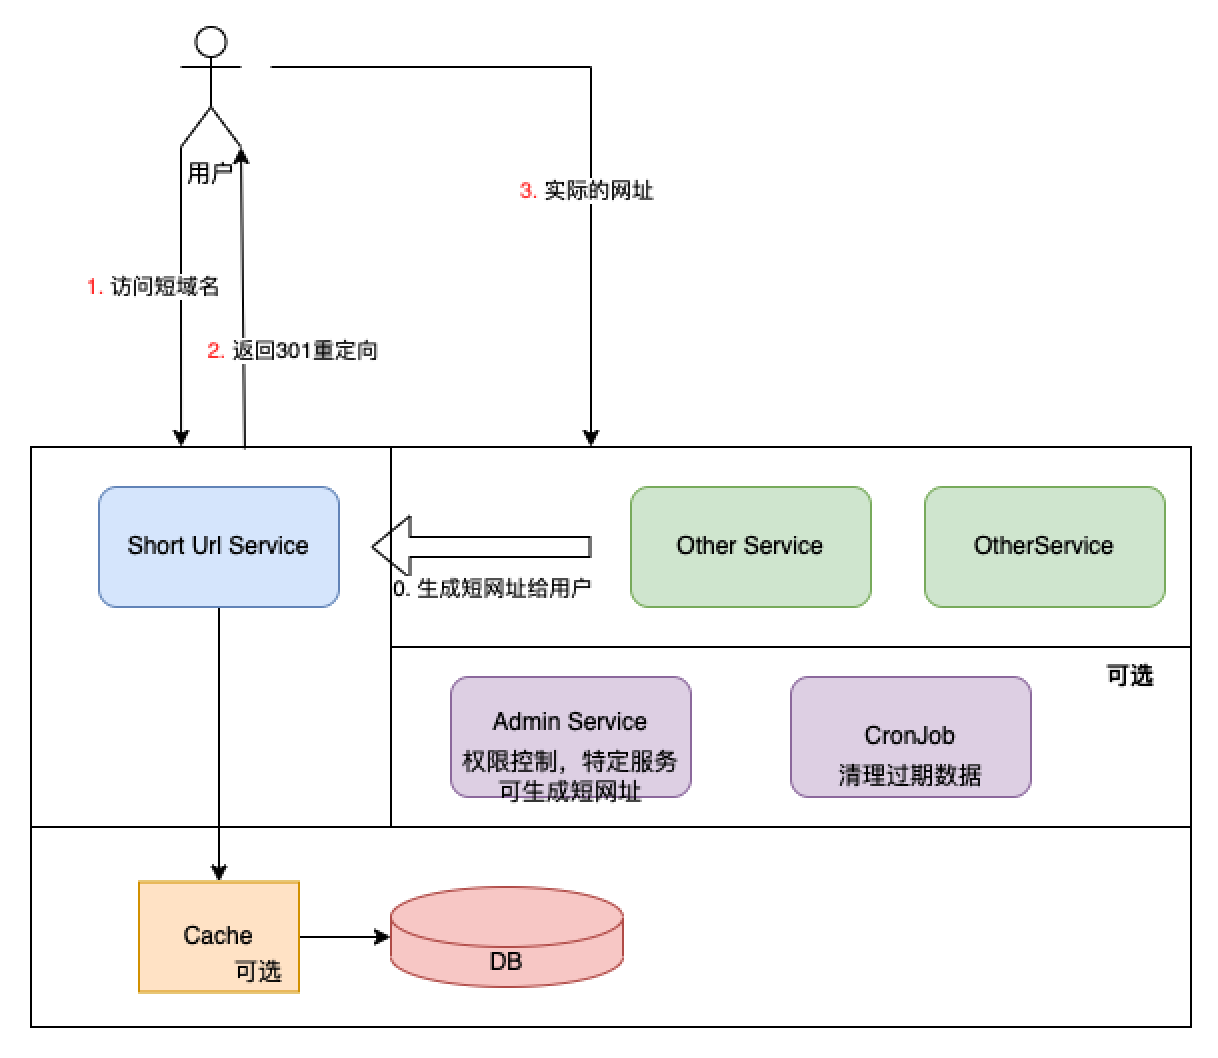
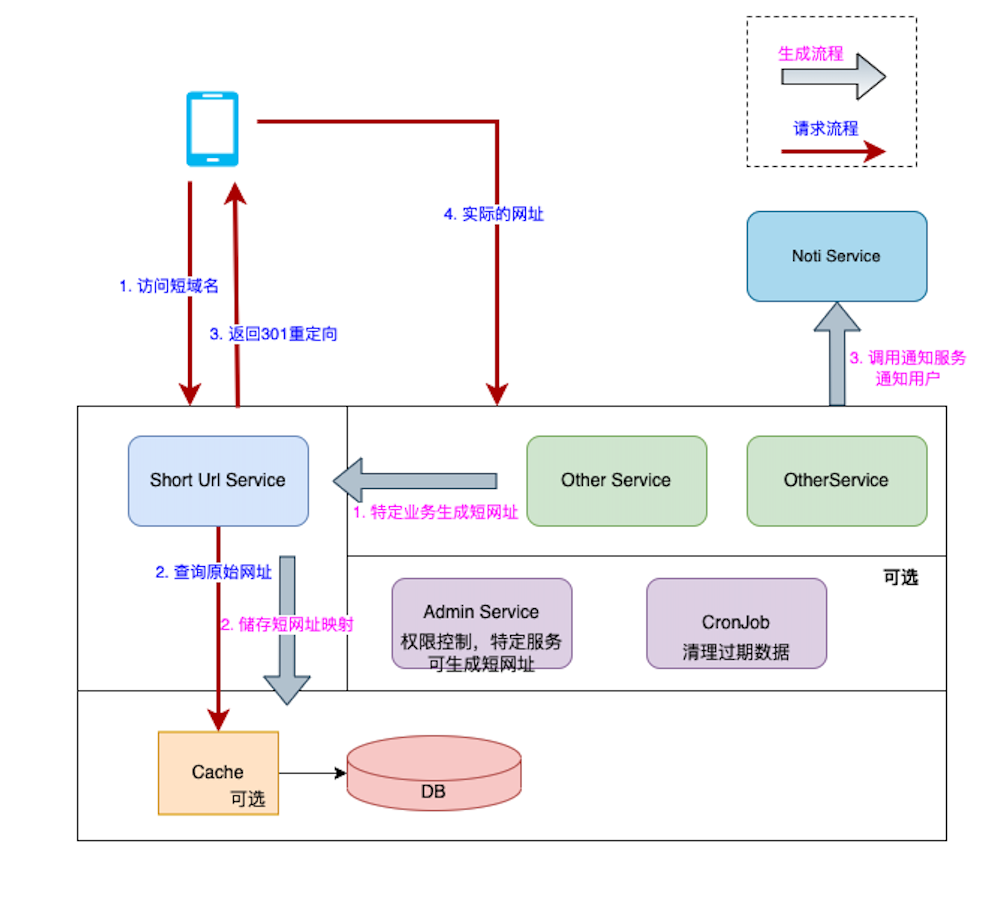
shor url

diff --git a/post/system_design/short_url/index.html b/post/system_design/short_url/index.html
@@ -208,7 +208,7 @@
 <p><strong>四、雪花算法</strong></p>
 <p>雪花算法作为分布式ID生成方案，在分布式服务场景下使用方便，生成的ID区间递增。一直被广泛使用。</p>
 <p>我们就是使用雪花算法的变种算法（修改位数来控制总长度）生成的唯一ID。</p>
-<p>然后根据ID生成62进制的短码，为了避免生成的短码有规律，我们先倒序ID，然后再转换成62进制。最终生成的短码是无序的。</p>
+<p>然后根据ID生成62进制的短码，为了避免生成的短码有规律，我们先反转ID，然后再转换成62进制。最终生成的短码是无序的。</p>
 <h3 id="储存方案">储存方案</h3>
 <p>我们使用了MySQL作为短码的储存方案。</p>
 <table>
@@ -227,12 +227,12 @@
 </tr>
 <tr>
 <td>short_url</td>
-<td>短码，根据雪花算法生成</td>
+<td>短码，根据雪花算法生成并进行62进制转换</td>
 <td>lFdzM7H</td>
 </tr>
 <tr>
 <td>original_url</td>
-<td>原始网址</td>
+<td>普通网址（原始网址）</td>
 <td><a href="https://www.leftpocket.cn/post/redis/multithreading/">https://www.leftpocket.cn/post/redis/multithreading/</a></td>
 </tr>
 <tr>
@@ -257,24 +257,45 @@
 <li>根据原始网址生成短码，可以根据url_hash查询数据库，如果有存在的，更新过期时间，直接返回。</li>
 <li>用户点击短码，查询数据库，有记录，返回301重定向到实际的网址。</li>
 </ol>
+<p><strong>生成流程</strong></p>
+<ul>
+<li>指定的服务器调用 <strong>短网址服务</strong> 对普通网址生成一个短网址；</li>
+<li>根据普通网址进行MD5 Hash生成一个MD5码；</li>
+<li>根据MD5码（索引）和网址从数据库里面查询短网址记录；</li>
+<li>有记录就把更新过期时间，并直接返回；</li>
+<li>无记录则使用雪花算法生成一个分布式唯一ID，反转ID，并转换成62进制；</li>
+<li>完整映射记录写入数据库并返回；</li>
+</ul>
+<p>
+        <img class="mx-auto" alt="short_url_1" src="/img/system_design/short_url_0.png" />   
+    </p>
 <h3 id="系统架构图">系统架构图</h3>
 <p>
         <img class="mx-auto" alt="short_url_1" src="/img/system_design/short_url.png" />   
     </p>
 <p>我们的服务有以下功能：</p>
 <ul>
-<li>一个短网址服务，负责接收其他服务的生成短Url请求，同时接收用户的访问请求。</li>
+<li>一个短网址服务，负责接收其他服务的 <strong>短网址生成</strong> 请求，同时接收用户的 <strong>短网址查询</strong> 请求。</li>
 <li>其他服务根据业务需求向短网址服务申请生成短网址，并通过通知服务发送给用户。</li>
-<li>DB负责查询和生成短网址记录。</li>
-<li>后台服务负责控制权限，哪些服务可以生成短网址。</li>
+<li>DB负责查询和生成短网址记录，Cache负责高并发情况下降低DB压力。</li>
+<li>后台服务负责控制权限，只有特定的服务可以生成短网址。</li>
 <li>CronJob负责定时清理过期数据，防止数据库数据量过大。</li>
 </ul>
 <h3 id="缓存方案">缓存方案</h3>
 <p>如果业务量增大，数据库存在性能瓶颈，我们可以使用缓存。</p>
 <ol>
 <li>Redis/Memcached分布式缓存。 -设置过期时间，避免占用过多内存。</li>
-<li>内存缓存。 -使用LRU缓存来讨论不经常访问的网址。</li>
+<li>内存缓存。 -使用LRU缓存来淘汰不经常访问的网址。</li>
 </ol>
+<h1 id="总结">总结</h1>
+<p>一个短网址服务的设计相对还是比较简单的，主要是考察一些细节：</p>
+<ul>
+<li>短网址生成算法</li>
+<li>数据库怎么设计</li>
+<li>怎么重定向</li>
+<li>高并发情况下的高可用</li>
+<li>数据量过大怎么处理</li>
+</ul>
 <p>&lt;全文完&gt;</p>
 <p>欢迎关注我的微信公众号：<strong>码农在新加坡</strong>，有更多好的技术分享。
 
